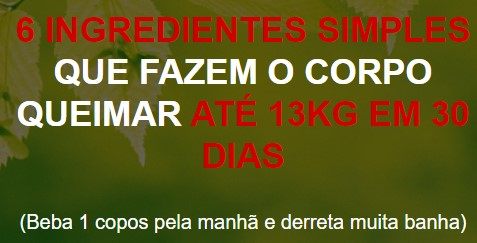
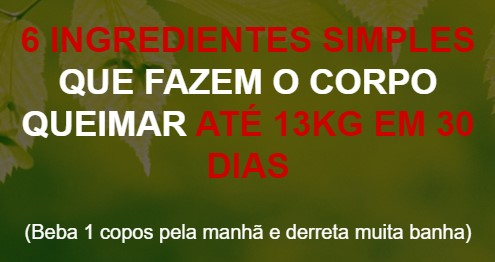
Add files via upload

diff --git a/index.html b/index.html
@@ -37,11 +37,7 @@
             <!-- Imagem Ultrasecreto -->
             <img class="img-fluid" src="./assets/img/ultrasecreto.svg">
 
-            <h3 class="my-4"><b><span style="color: #ce0000;">6 INGREDIENTES SIMPLES</span>
-            QUE FAZEM O CORPO QUEIMAR 
-             <span style="color: #ce0000;">ATÉ 13KG EM 30 DIAS</span> </b></h3>
-            
-             <p>(Beba 1 copos pela manhã e derreta muita banha)</p>
+            <img class="img-fluid" src="./assets/img/ln.jpg">
 
             <!-- VSL -->
             <script type="text/javascript" id="scr_6226ac18aa8f7e000965d88e">var s=document.createElement("script");s.src="https://cdn.converteai.net/8b03b5e9-1e95-4b45-9063-037ac9b350ab/players/6226ac18aa8f7e000965d88e/player.js",s.async=!0,document.head.appendChild(s);</script>
@@ -68,10 +64,6 @@ generate();</script>
             <!-- Termos de Uso e Política de Privacidade -->
             <div class="text-white mt-4"><a href="termos.html" class="text-white">Termos de Uso</a> | <a href="privacidade.html" class="text-white">Política de Privacidade</a></div>
           </div>
-          
-          
-          
-          
           <p style="text-align: center;">© 2022 – Todos os direitos reservados. Este site não faz parte nem é endossado pelo Facebook. Facebook é uma marca comercial da Facebook, Inc.</p>
   </div>
         </div>
